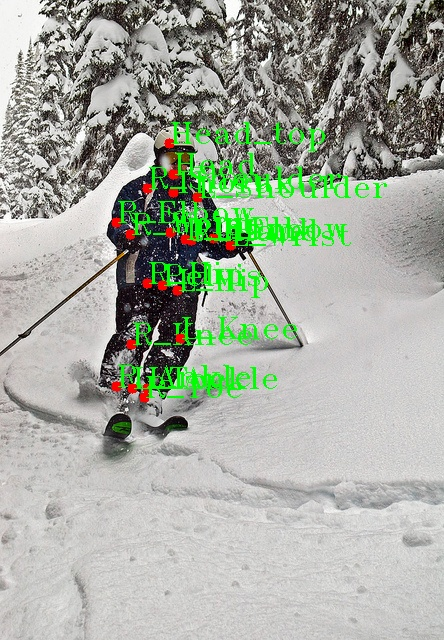
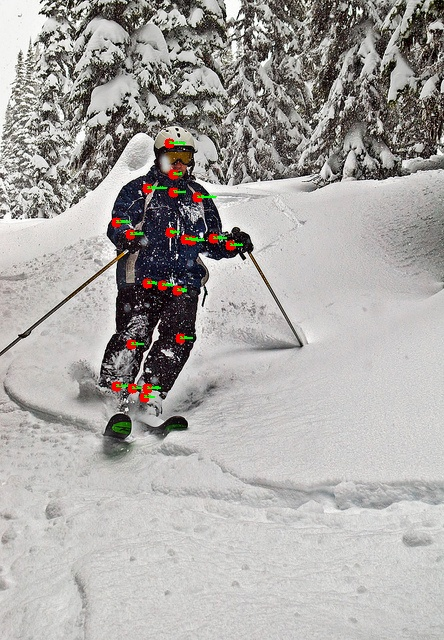
debug

Changed region(s): [[0.2635, 0.1875, 0.8784, 0.625]]

diff --git a/main.py b/main.py
@@ -108,7 +108,7 @@ def main():
 
         for i in range(len(posenet_pred)):
             cv2.circle(im, (posenet_pred[i][0], posenet_pred[i][1]), 5, (0, 0, 255), -1)
-            cv2.putText(im, pipeline_cfg.joints_name[i], (posenet_pred[i][0], posenet_pred[i][1]), cv2.FONT_HERSHEY_TRIPLEX, 0.1, (0, 255, 0), 1)
+            cv2.putText(im, pipeline_cfg.joints_name[i], (posenet_pred[i][0], posenet_pred[i][1]), cv2.FONT_HERSHEY_TRIPLEX, 0.5, (0, 255, 0), 1)
     cv2.imwrite("output.jpg", im)
 
 if __name__ == "__main__":
